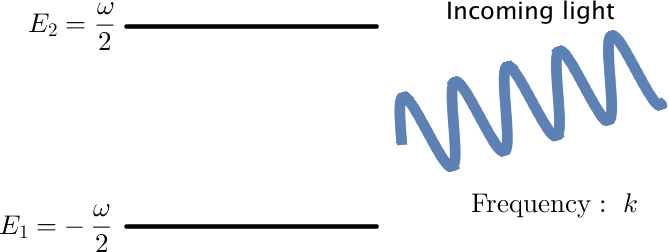
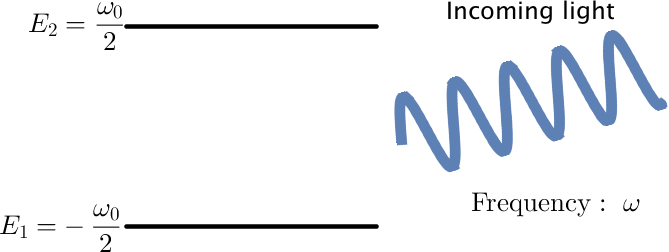
yes this is the final version

diff --git a/slides/slides.tex b/slides/slides.tex
@@ -248,14 +248,14 @@ UNM}
 
 \only<1-1>{
 \begin{figure}
-\includegraphics[width=\textwidth]{assets/neutrino-normal-hierarchy.png}
+\includegraphics[width=\textwidth]{assets/neutrino-mass-normal-hierarchy-simple.png}
 \caption*{Adapted from Olga Mena \& Stephen Parke (2004)}
 \end{figure}
 }
 
 \only<2-2>{
 \begin{figure}
-\includegraphics[width=\textwidth]{assets/neutrino-inverted-hierarchy.png}
+\includegraphics[width=\textwidth]{assets/neutrino-mass-inverted-hierarchy-simple.png}
 \caption*{Adapted from Olga Mena \& Stephen Parke (2004)}
 \end{figure}
 }
@@ -1202,9 +1202,9 @@ P. Krastev and A. Smirnov (1989); J. Kneller et al (2013);\\ K. Patton et al (20
 
 \begin{tcolorbox}[title=A Better Basis]
 
-{\color{red}
+
 Remove diagonal elements
-}
+
 
 Define new basis \{$\ket{\tilde\nu_{\mathrm{L} }}$,$\ket{\tilde\nu_{\mathrm{H} }}$\} is related to background matter basis \{$\ket{\nu_{\mathrm{L} }}$,$\ket{\nu_{\mathrm{H} }}$\} through
 
@@ -1321,8 +1321,8 @@ Hamiltonian
 
 \begin{equation*}
     \begin{pmatrix}
-    -\omega/2 & \alpha \omega e^{i k x}\\
-    \alpha \omega  e^{-i k x} & \omega/2
+    -\omega_0/2 & \alpha \omega_0 e^{i \omega x}\\
+    \alpha \omega_0  e^{-i k x} & \omega_0/2
     \end{pmatrix},
 \end{equation*}
 \end{tcolorbox}
@@ -1376,6 +1376,13 @@ Hamiltonian
 
 \begin{tcolorbox}[title=Off-diagonal Term in Our System]
 
+\begin{equation*}
+    \mathbf{\widetilde H}= \begin{pmatrix}
+    0 & h \\
+    h^* & 0
+    \end{pmatrix}
+\end{equation*}
+
 \begin{align*}
     h & \propto \left[ \exp\left(i(k + \omega_{\mathrm m})x + i\cos 2\theta_{\mathrm m} \frac{A}{k} \cos (k x ) \right) \right. \\
     &\phantom{\propto} \left. - \exp\left(i(-k  + \omega_{\mathrm m})x + i\cos 2\theta_{\mathrm m} \frac{A}{k} \cos (k x ) \right) \right]
@@ -1424,9 +1431,17 @@ Characteristic scale: $\omega_{\mathrm{m}}$
 
 The off-diagonal element of Hamiltonian
 
+% \begin{equation*}
+% \hat h= \sum_{n=-\infty}^{\infty} \frac{1}{2} \hat B_n e^{i  {\color{blue} (n\hat k-1) } \hat x},
+% \end{equation*}
+
 \begin{equation*}
-\hat h= \sum_{n=-\infty}^{\infty} \frac{1}{2} \hat B_n e^{i  {\color{blue} (n\hat k-1) } \hat x},
+\mathbf{\widetilde H}= \sum_{n=-\infty}^{\infty} \begin{pmatrix}
+0 & \frac{1}{2} \hat B_n e^{i  {\color{blue} (n\hat k-1) } \hat x}\\
+\frac{1}{2} \hat B_n^* e^{ -i  {\color{blue} (n\hat k-1) } \hat x} & 0
+\end{pmatrix}
 \end{equation*}
+
 
 where $\hat B_n =  - (-i)^n  n \hat k \tan 2\theta_{\mathrm{m}}  J_n ( \hat A \cos 2\theta_{\mathrm{m}} / \hat k ) $.
 
@@ -1436,14 +1451,14 @@ where $\hat B_n =  - (-i)^n  n \hat k \tan 2\theta_{\mathrm{m}}  J_n ( \hat A \c
 \end{tcolorbox}
 
 
-\begin{tcolorbox}[title=Near Resonance]
-\centering
-small ${\color{blue} (n\hat k-1)}$ $\to$ important term
+% \begin{tcolorbox}[title=Near Resonance]
+% \centering
+% small ${\color{blue} (n\hat k-1)}$ $\to$ important term
 
-\centering
-Find integer $n_0 = \mathrm{Round}\left[ 1/\hat k \right]$ that minimizes ${\color{blue} n\hat k -1}$.
+% \centering
+% Find integer $n_0 = \mathrm{Round}\left[ 1/\hat k \right]$ that minimizes ${\color{blue} n\hat k -1}$.
 
-\end{tcolorbox}
+% \end{tcolorbox}
 
 }
 
@@ -1460,15 +1475,14 @@ Find integer $n_0 = \mathrm{Round}\left[ 1/\hat k \right]$ that minimizes ${\col
 \begin{tcolorbox}[title=Transition Probability]
 
 \begin{equation*}
-    P_{1\to 2} = \frac{ \lvert \Gamma/2 \rvert^2 }{ q ^2  } \sin^2 \left( \frac{q}{2} x \right)  ,
+    P_{1\to 2}^{(n)} = \frac{ \lvert \Gamma^{(n)}/2 \rvert^2 }{ \left\lvert  \Gamma^{(n)}/2 \right\rvert^2 + ( n \hat k - 1 )^2  } \sin^2 \left( \frac{ q^{(n)} }{2} x \right)  ,
 \end{equation*}
 
 where
 
 \begin{align*}
-    q^2 &= \left\lvert  \Gamma/2 \right\rvert^2 + ( n_0 \hat k - 1 )^2,\quad \text{frequency of oscillations} \\
-    \Gamma &= \left\lvert \hat B_{n_0} \right\rvert, \quad \text{width of resonance ($n\hat k$ as parameter)} \\
-    n_0 &= \mathrm{Round}\left[ 1/\hat k \right]
+    q^{(n)} &= \sqrt{\left\lvert  \Gamma^{(n)}/2 \right\rvert^2 + ( n \hat k - 1 )^2},\quad \text{frequency of oscillations} \\
+    \Gamma^{(n)} &= \left\lvert \hat B_{n} \right\rvert, \quad \text{width of resonance ($n\hat k$ as parameter)}
 \end{align*}
 
 
